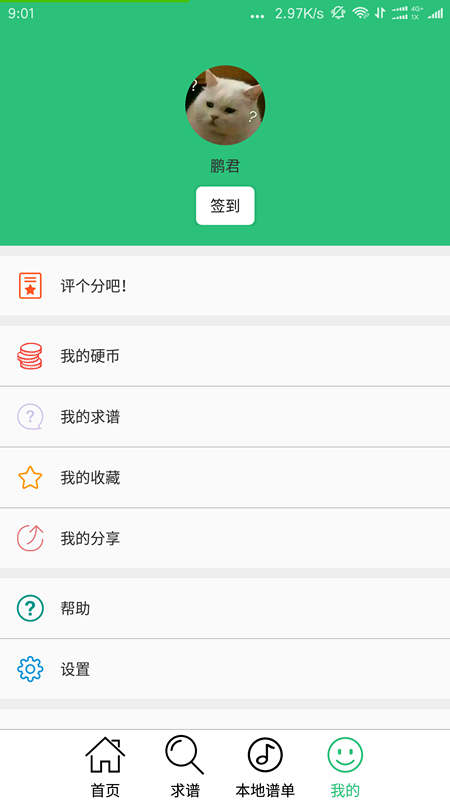
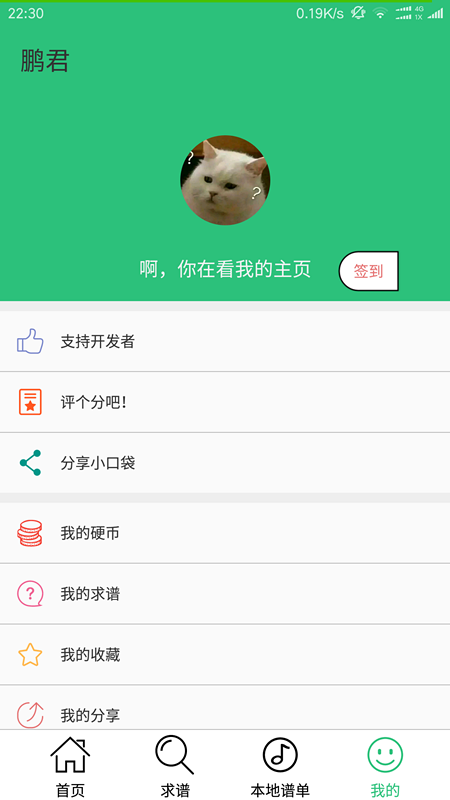
更新Readme

diff --git a/app/src/main/java/com/example/q/pocketmusic/model/net/LoadTypeSongList.java b/app/src/main/java/com/example/q/pocketmusic/model/net/LoadTypeSongList.java
@@ -1,9 +1,11 @@
 package com.example.q.pocketmusic.model.net;
 
 import android.os.AsyncTask;
+import android.util.Log;
 
 import com.example.q.pocketmusic.config.Constant;
 import com.example.q.pocketmusic.model.bean.Song;
+import com.example.q.pocketmusic.util.common.LogUtils;
 
 import org.jsoup.Jsoup;
 import org.jsoup.nodes.Document;
@@ -33,6 +35,7 @@ public class LoadTypeSongList extends AsyncTask<String, Void, List<Song> > {
     @Override
     protected List<Song> doInBackground(String... strings) {
         String typeUrl = strings[0];
+        LogUtils.e(typeUrl);
         List<Song> list=new ArrayList<>();
         try {
             Document doc = Jsoup.connect(typeUrl)
@@ -44,9 +47,8 @@ public class LoadTypeSongList extends AsyncTask<String, Void, List<Song> > {
                     .getElementsByTag("tbody")
                     .get(0);
             Elements trs = tbody.getElementsByTag("tr");
-            trs.remove(24);
-            trs.remove(18);
-            trs.remove(12);
+            trs.remove(23);
+            trs.remove(17);
             trs.remove(11);
             trs.remove(5);//一定要倒着去横线！！不然会顺序错误
             for (Element tr : trs) {

diff --git a/app/src/main/java/com/example/q/pocketmusic/config/Constant.java b/app/src/main/java/com/example/q/pocketmusic/config/Constant.java
@@ -1,10 +1,5 @@
 package com.example.q.pocketmusic.config;
 
-import com.example.q.pocketmusic.util.common.SharedPrefsUtil;
-
-import java.util.HashMap;
-import java.util.Map;
-
 /**
  * Created by 鹏君 on 2016/8/28.
  */

diff --git a/README.md b/README.md
@@ -5,13 +5,12 @@
 
 ### 客官看过来~     
 
-你还在为练习口琴、吉他、钢琴等乐器却找不到乐谱而伤神吗？  
-口袋乐谱，内置口琴、电子琴、吉他等十余项乐器的乐谱搜索，推荐，下载。神奇的口袋里，你想要的All in One。    
-口袋乐谱为你提供各类乐器的最新、最流行、最经典的乐谱，让您无论身处何方，不用带着沉重的乐谱书，也可以实现自己的音乐梦。
- 
-**搜索乐谱**：可以搜索到任意最新，最全的曲谱。
+当漫天飞雨，当心绪使然，当练习音乐……也许你突然想拿起身边的乐器，或琴，或筝，或笛，或古风，或西洋。你苦于乐谱难寻，音乐难叙，此时此刻，此景此情，唯有口袋乐谱在你身边。奇妙的口袋里，有你想要的一切乐谱，你可以随时、随地、随心玩你想要的音乐。产品特色：及时提供各种乐器的乐谱，上传你想与他人分享的乐曲，经典的，流行的，应有尽有，支持古筝，口琴，钢琴，吉他等十余种乐器，更有志同道合的乐友与你同在。我随缘为你寻谱，你随缘为我演奏。音乐不止，乐谱不尽，口袋乐谱在音乐的旅途中与你同行。
 
-**支持多种曲谱类型**：包括吉他谱，钢琴谱，简谱等等。
+ 
+**搜索乐谱**：可以搜索到任意最新，最全的曲谱，包括网络搜索，本站搜索。
+
+**支持多种曲谱类型**：支持十五种乐器，包括吉他谱，钢琴谱，简谱等等。
 
 **一键下载**：喜欢的乐谱一键下载，不让您错过每一次感动。
 
@@ -21,11 +20,12 @@
 
 **分享乐谱**：好的曲子分享给大家也不失为一种快乐。
 
-**求谱系统**：搜索不到怎么办？发帖子向谱友求助吧！
+**求谱系统**：搜索不到怎么办？发帖子向谱友求助吧！花费少量的硬币可以提升求谱指数哦~
 
-**网络收藏**：如果想保存在云端，可以试试收藏功能哦！
+**用户系统**：我的收藏，我的分享，硬币系统，每日签到，支持开发者~~（圈钱大法好）~~
 
-**电子钢琴**: 可以弹奏的电子钢琴（尝鲜版）
+**其他功能**：帮助系统，版本介绍，电子钢琴（尝鲜版）,分享小口袋
+
 
 ### 示例：
 
